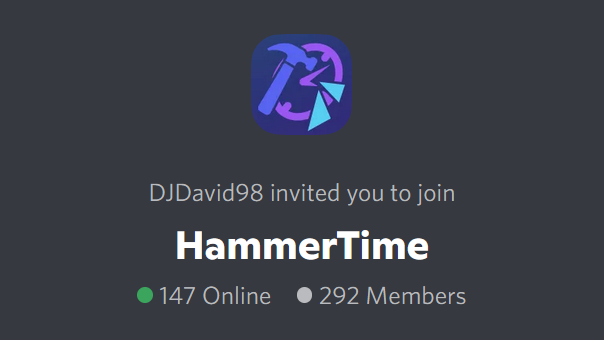
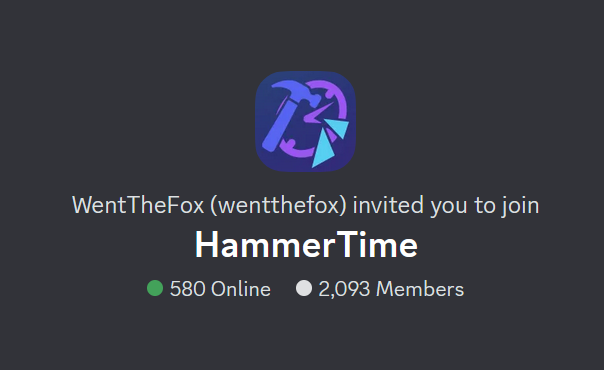
Update server useful link image

Changed region(s): [[0.1192, 0.5294, 0.894, 0.9118], [0.4172, 0.0882, 0.596, 0.4706]]

diff --git a/resources/js/Components/home/UsefulLinks.vue b/resources/js/Components/home/UsefulLinks.vue
@@ -17,14 +17,14 @@ import HtTranslate from '@/Reusable/HtTranslate.vue';
         :desc="$t('timestampPicker.usefulLinks.server.p')"
         href="discord"
         :is-local="true"
-        image="/useful-links/server.png"
+        image="/useful-links/server.png?v=3"
       />
       <UsefulLinkItem
         :name="$t('timestampPicker.usefulLinks.bot.header')"
         :desc="$t('timestampPicker.usefulLinks.bot.p')"
         href="botInfo"
         :is-local="true"
-        image="/useful-links/bot.png"
+        image="/useful-links/bot.png?v=2"
       />
       <UsefulLinkItem
         :desc="$t('timestampPicker.usefulLinks.textColor.p')"
